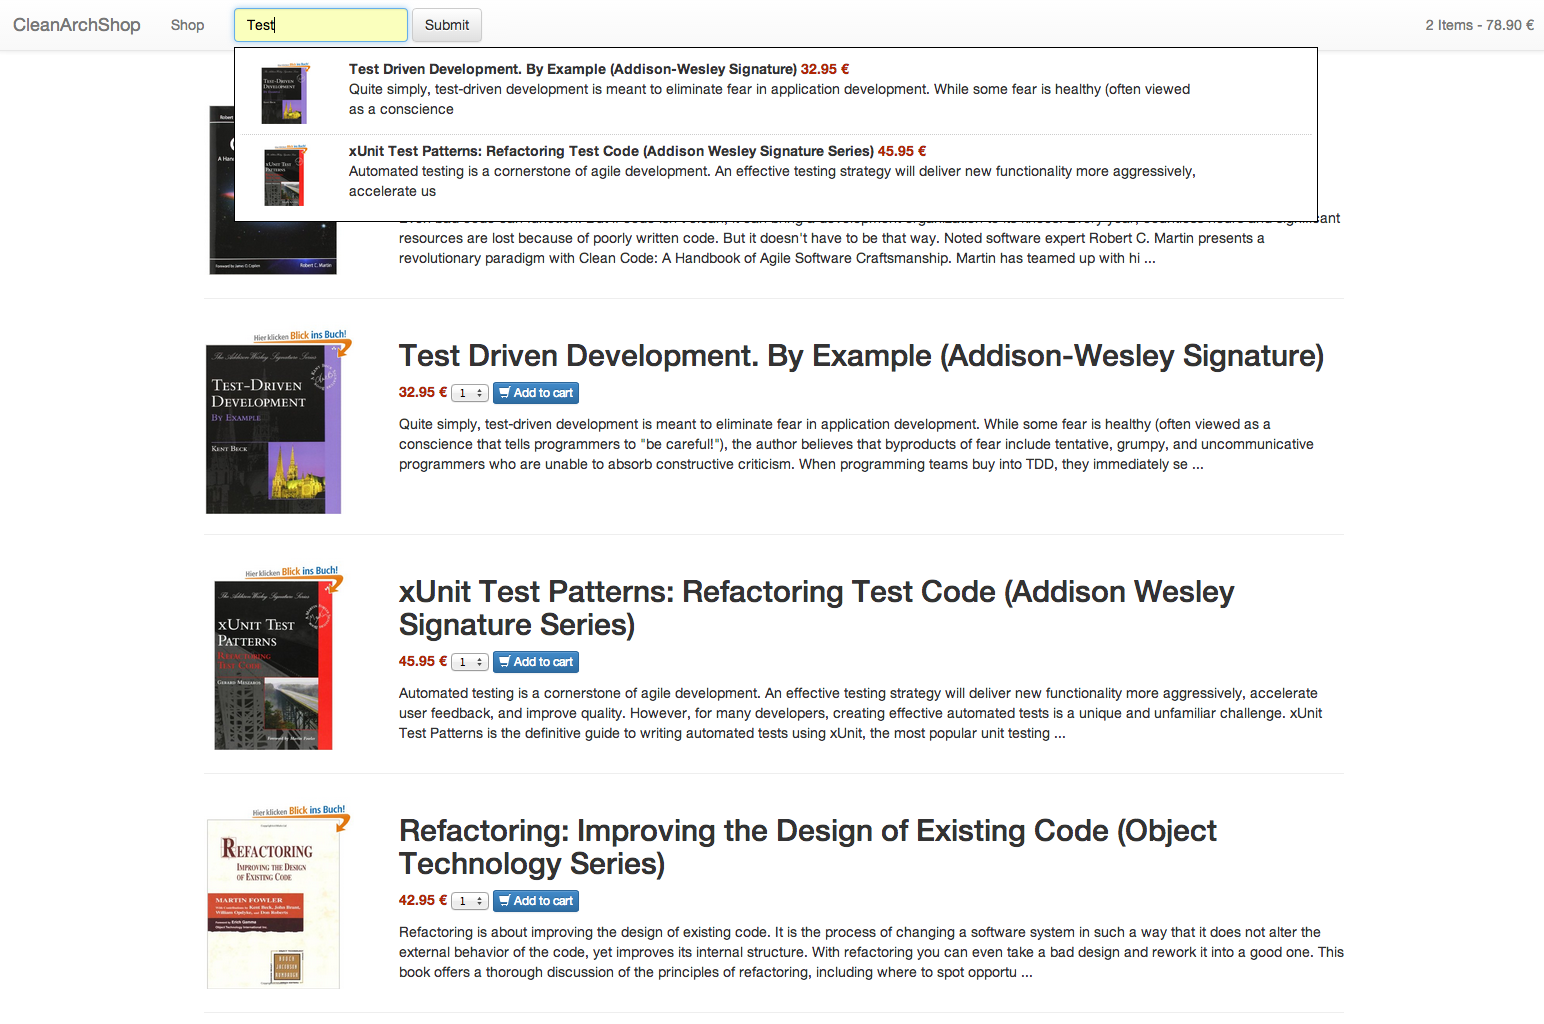
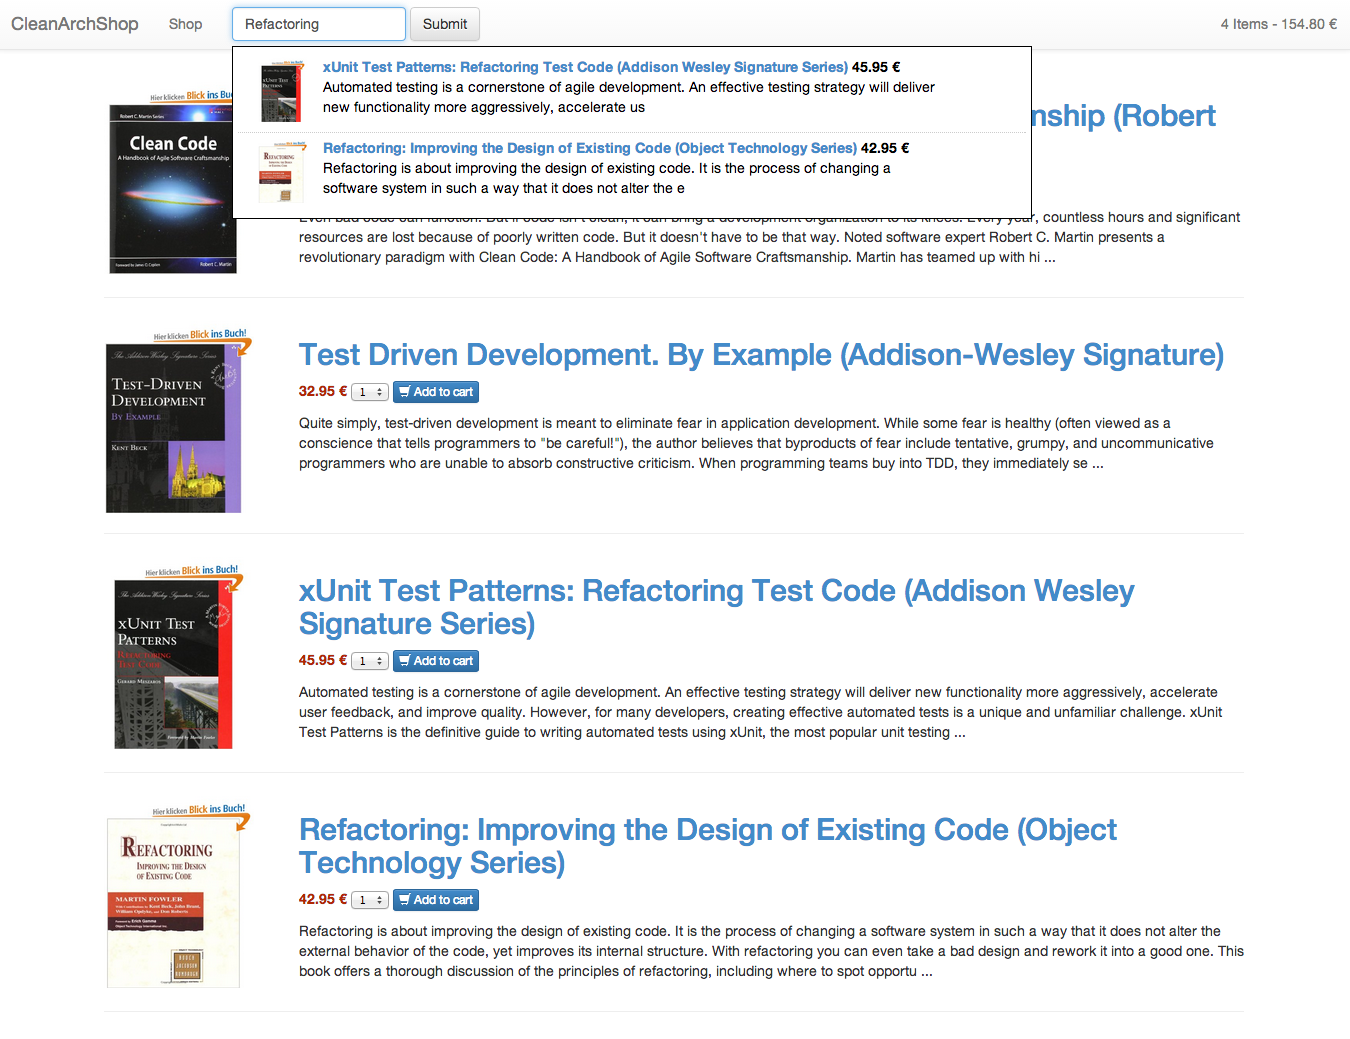
Remove old screenshots

diff --git a/README.md b/README.md
@@ -20,4 +20,4 @@ https://www.youtube.com/watch?v=asLUTiJJqdE
 Screenshots:
 ============
 
-![screenshot](screenshot_3.png)
+![screenshot](screenshot.png)
